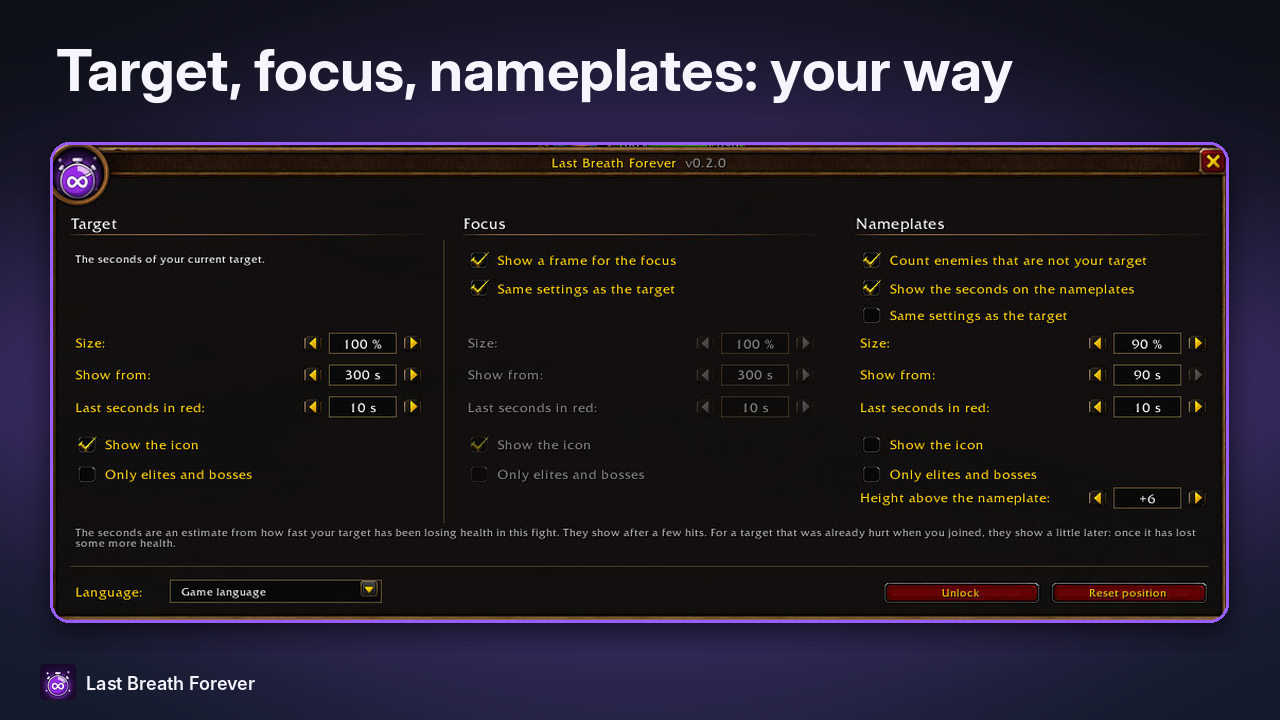
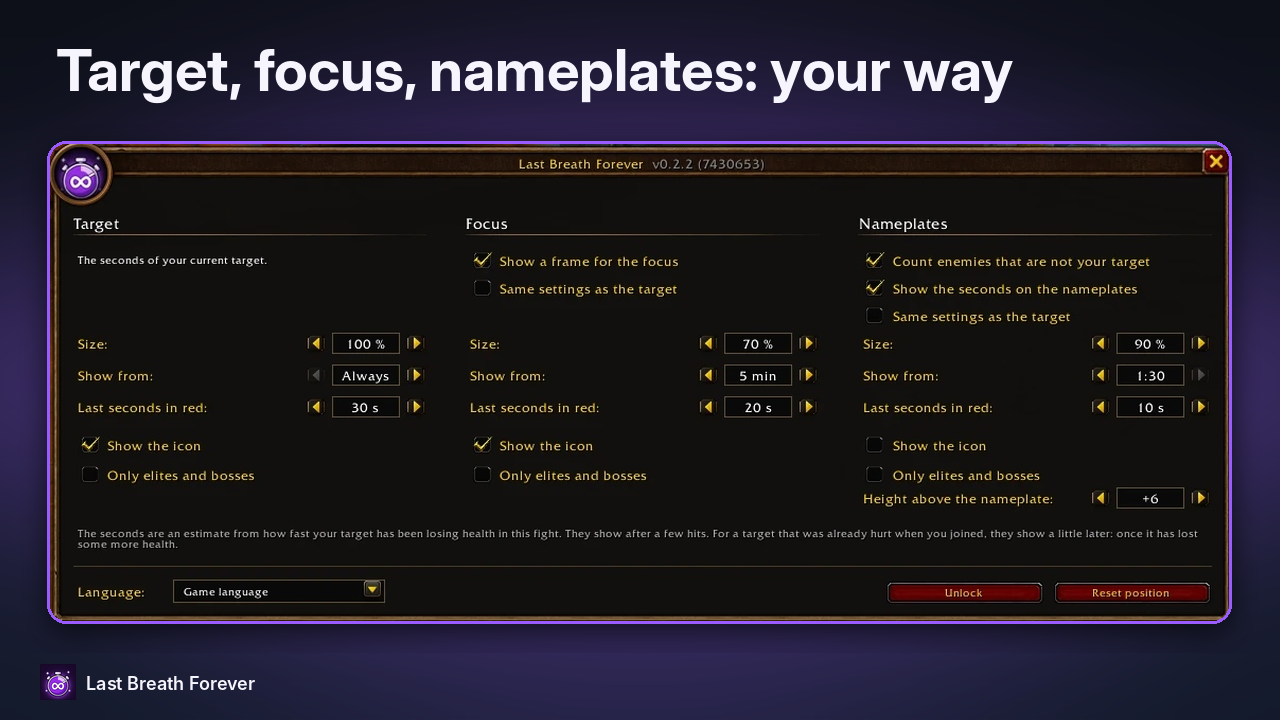
Gallery: settings window of 0.2.2

diff --git a/tools/gallery.py b/tools/gallery.py
@@ -87,6 +87,7 @@ make("03_time_to_die.png", "Know when your target dies",
 both = shot("41", (1040, 205, 1560, 360), 2.0, [(1210, 321, 1282, 333), (1466, 346, 1538, 358)])
 make("04_last_seconds_focus.png", "Save the cooldown for the end",
      "The last seconds turn red. A second frame for your focus: healers keep the boss there.", both)
-opts = shot("165052", (0, 178, 1110, 630), 1.06)
+# 20 Nov, 0.2.2: the settings window with the new time labels (focus and nameplates with their own rows)
+opts = shot("202611201915", (36, 322, 1152, 776), 1.06)
 make("05_settings.png", "Target, focus, nameplates: your way", None, opts)
 social(shot("172220", (760, 172, 1300, 335), 1.2))
